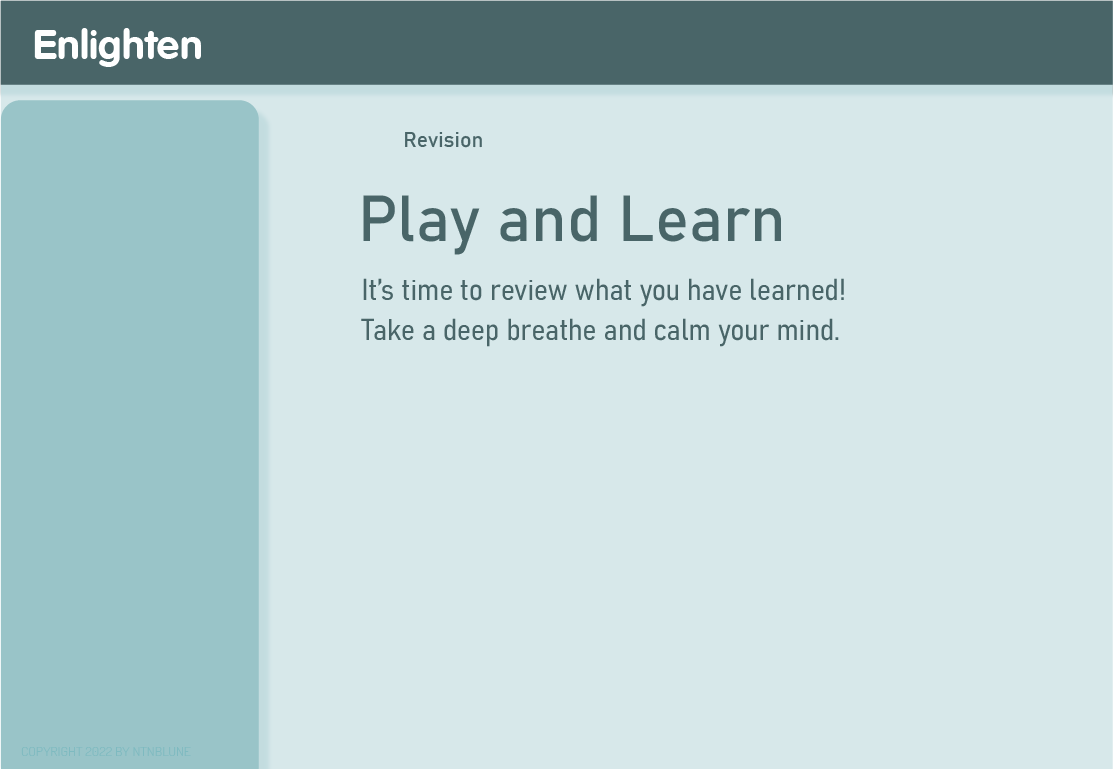
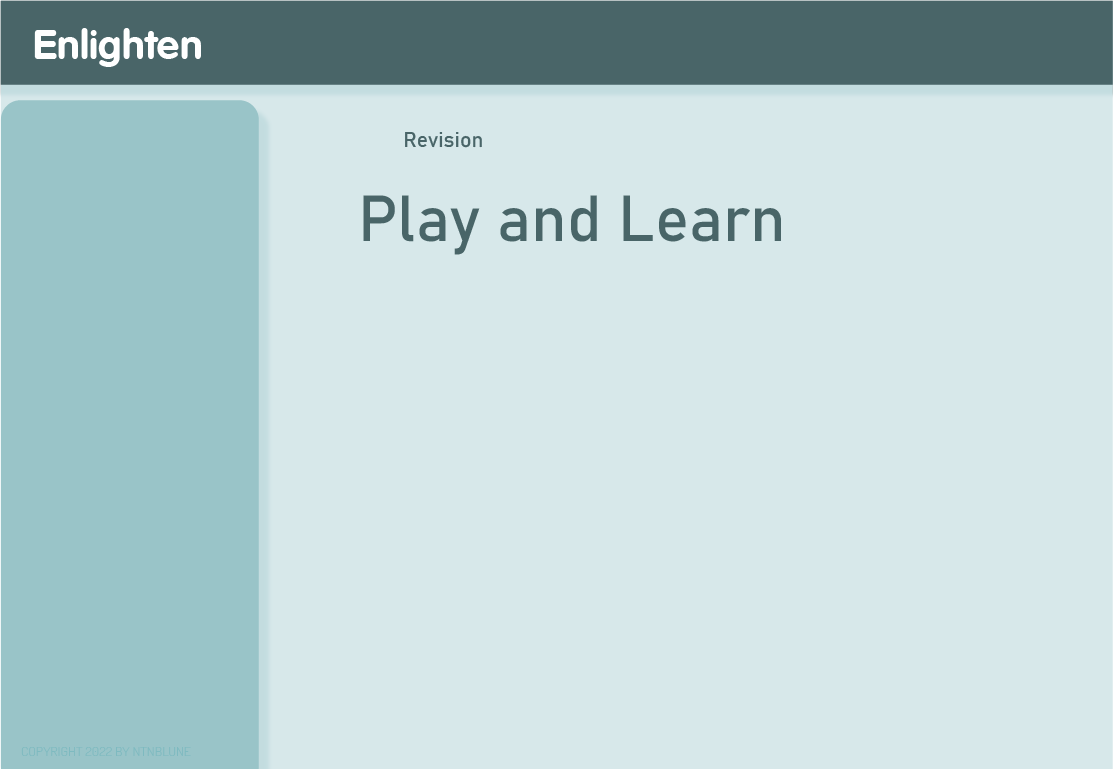
update "revision", add more assets
revision: is able to choose difficulty now
new assets for initial loading, difficulties, add_new_word function

Changed region(s): [[0.3055, 0.3433, 0.7637, 0.4681]]

diff --git a/CS163_Enlighten/view_scene.cpp b/CS163_Enlighten/view_scene.cpp
@@ -41,6 +41,8 @@ void Scene1(RenderWindow &window, int &page)
 void revision(RenderWindow &window, int &page)
 {
 	Object screen = createObject("Graphic/p7.png");
+	Object* text = createObjectTest("Graphic/p7_text1.png", 360.0f, 278.0f);
+	Object* text2 = createObjectTest("Graphic/p7_text2.png", 360.0f, 278.0f);
 	pair<Object *, Object *> b1 = createElement("p7_start", 360.0f, 377.0f);
 	Object revision1 = createObject("Graphic/revision1.png", 0.0f, 308.0f);
 	pair<Object *, Object *> home = createElement("home", 0.0f, 168.0f);
@@ -50,7 +52,10 @@ void revision(RenderWindow &window, int &page)
 	pair<Object *, Object *> del = createElement("p4_del", 1056.0f, 32.0f);
 	pair<Object *, Object *> pLeft = createElement("left", 352.0f, 130.0f);
 	pair<Object *, Object *> pRight = createElement("right", 376.0f, 130.0f);
-
+	pair<Object *, Object *> easy = createElement("easy", 360.0f, 360.0f);
+	pair<Object *, Object *> medium = createElement("med", 360.0f, 467.0f);
+	pair<Object *, Object *> hard = createElement("hard", 360.0f, 574.0f);
+	bool difficulty = true;
 	Event event;
 	while (page == 7)
 	{
@@ -71,6 +76,11 @@ void revision(RenderWindow &window, int &page)
 				{
 					// switchPage(b1.first->bound, mouse, 2, page);
 					switchPage(home.first->bound, mouse, 4, page);
+
+					if (isHere(b1, mouse) && difficulty)
+					{
+						difficulty = false;
+					}
 				}
 				break;
 			}
@@ -89,8 +99,24 @@ void revision(RenderWindow &window, int &page)
 		drawWhich(window, b1, mouse);
 		drawWhich(window, pLeft, mouse);
 		drawWhich(window, pRight, mouse);
+		if (!difficulty)
+		{
+			window.draw(text2->draw);
+			drawWhich(window, easy, mouse);
+			drawWhich(window, hard, mouse);
+			drawWhich(window, medium, mouse);
+		}
+		else
+		{
+			drawWhich(window, b1, mouse);
+			window.draw(text->draw);
+		}
 		window.display();
 	}
+	deallocate(easy);
+	deallocate(hard);
+	deallocate(medium);
+	delete text, text2;
 	deallocate(b1);
 	deallocate(del);
 	deallocate(settings);
@@ -159,7 +185,6 @@ void settings(RenderWindow &window, int &page, const bool& is_admin)
 	}
 	deallocate(b1);
 	deallocate(del);
-	deallocate(settings);
 	deallocate(fav);
 	deallocate(home);
 	deallocate(pLeft);

diff --git a/CS163_Enlighten/header.h b/CS163_Enlighten/header.h
@@ -39,4 +39,3 @@ void wordDisplay(RenderWindow &window, int &page, const bool &is_admin);
 void myList(RenderWindow &window, int &page, bool is_fav);
 void revision(RenderWindow &window, int &page);
 
-
